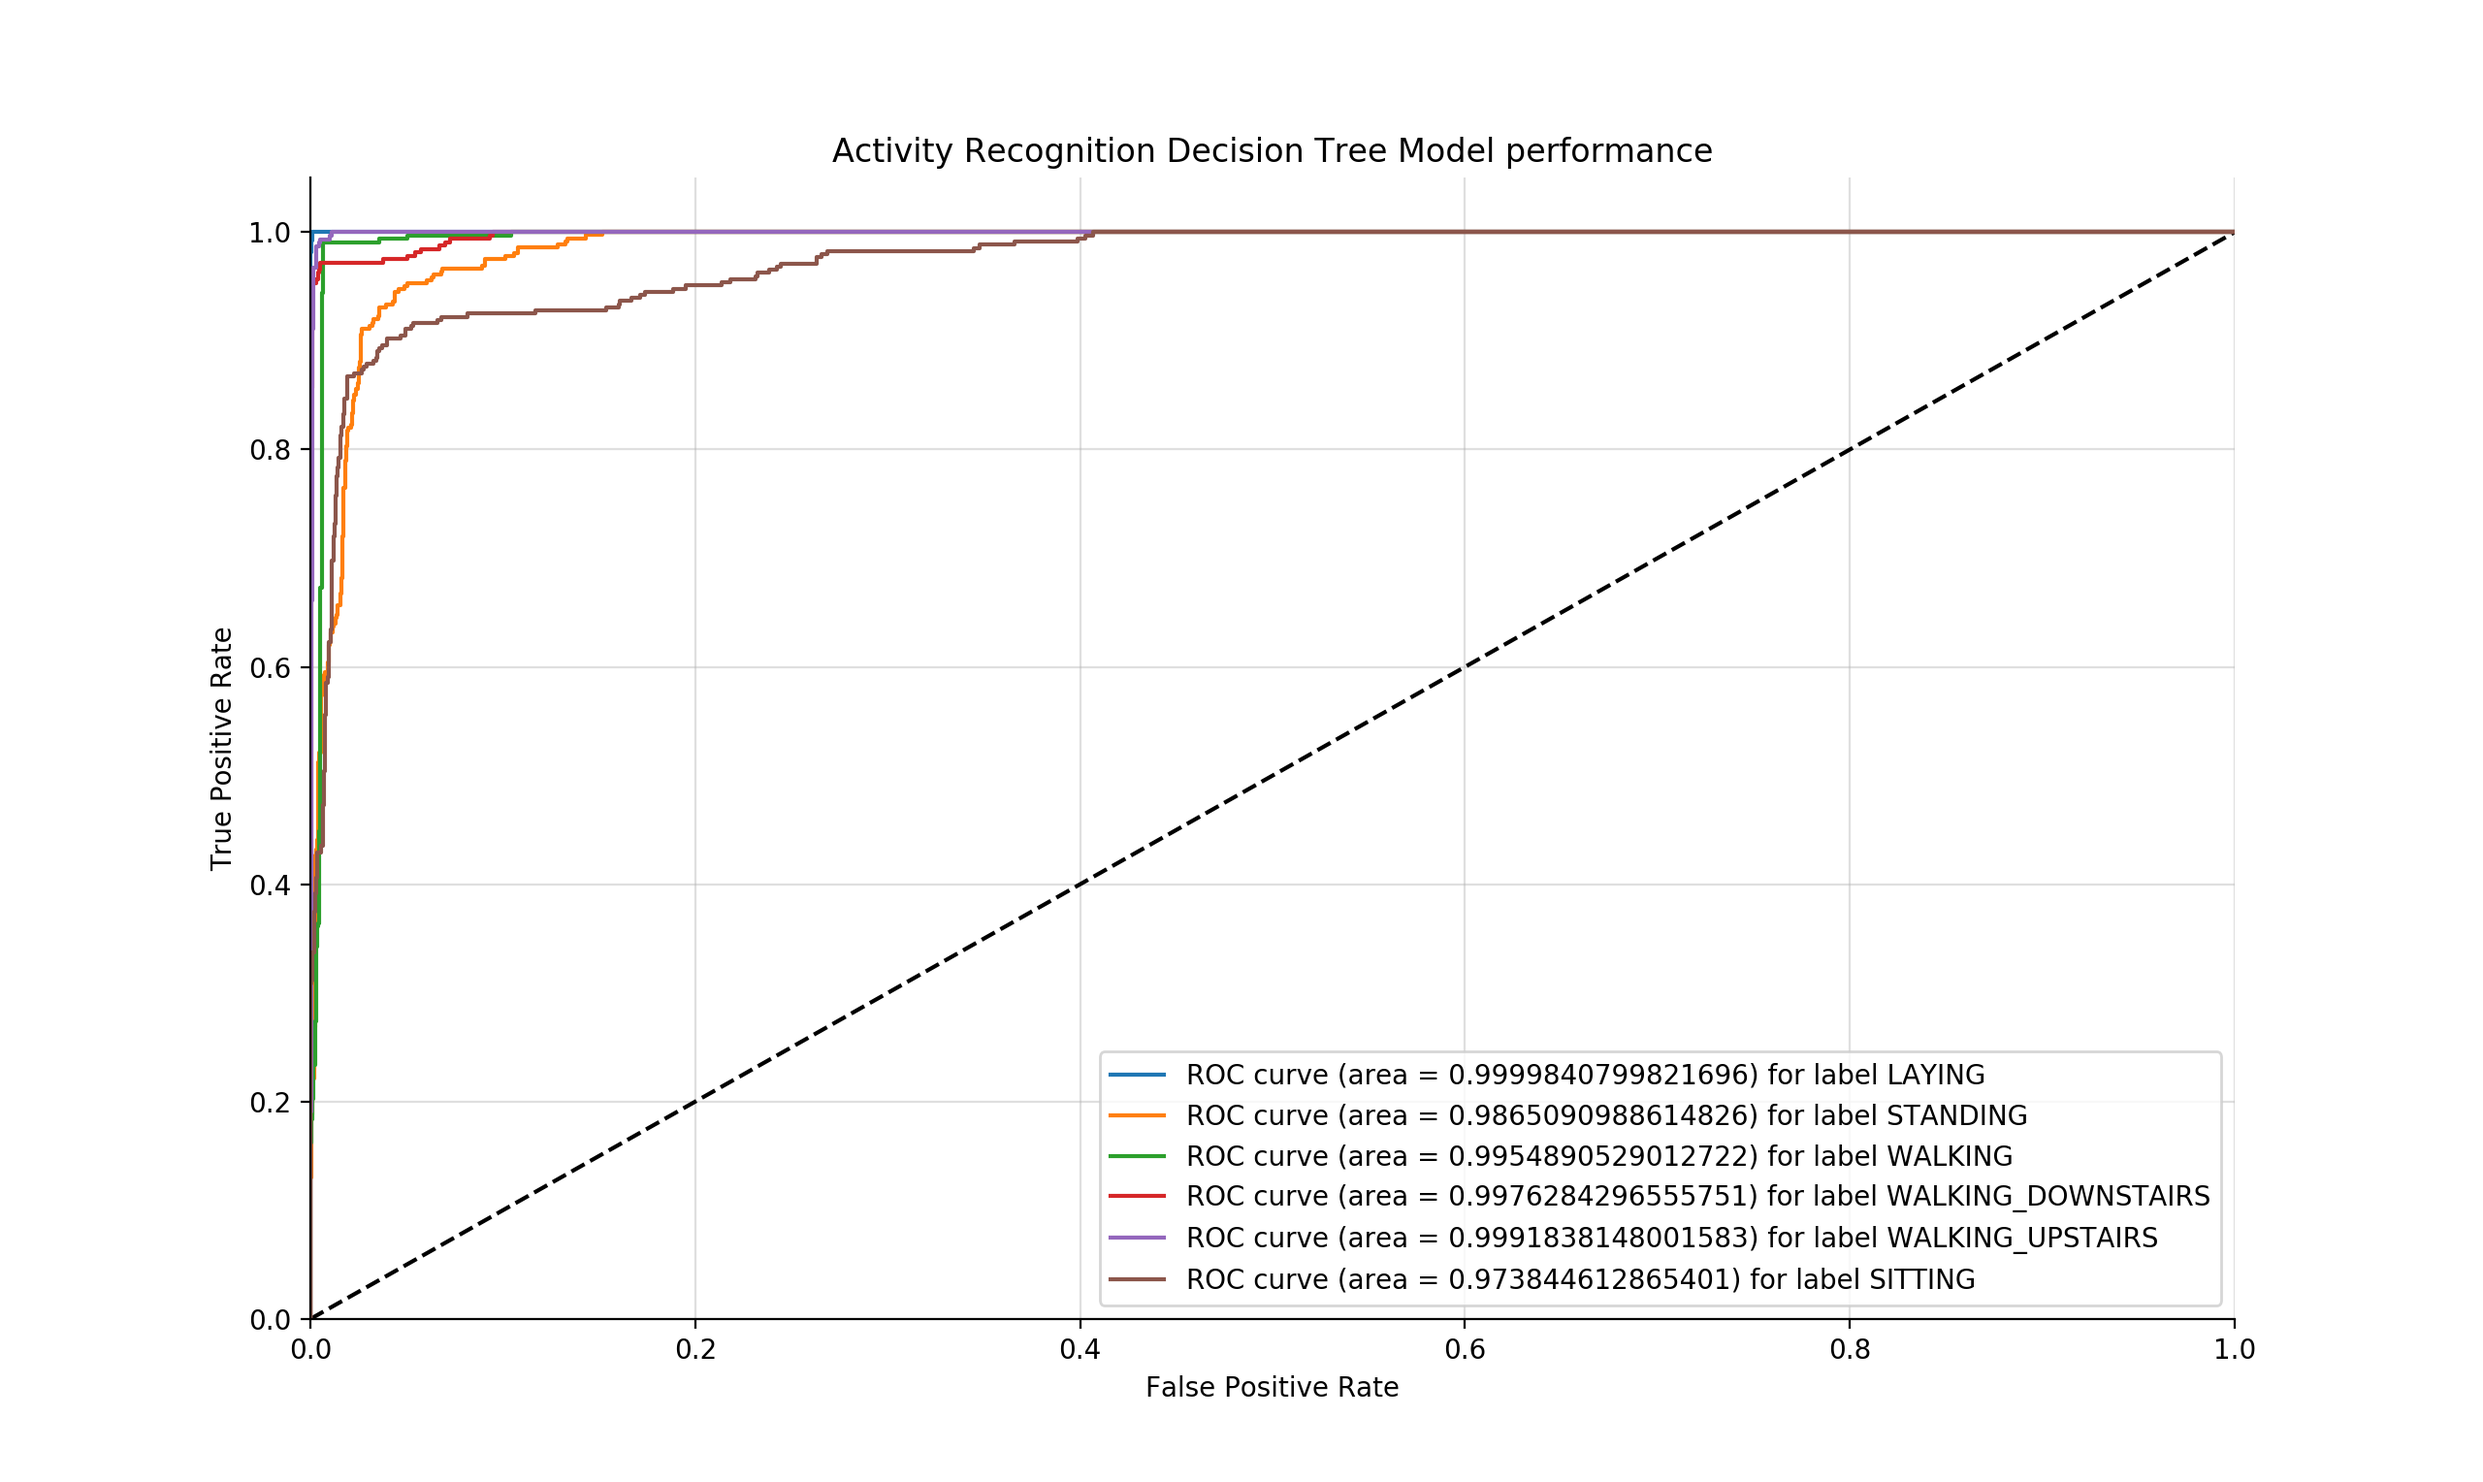
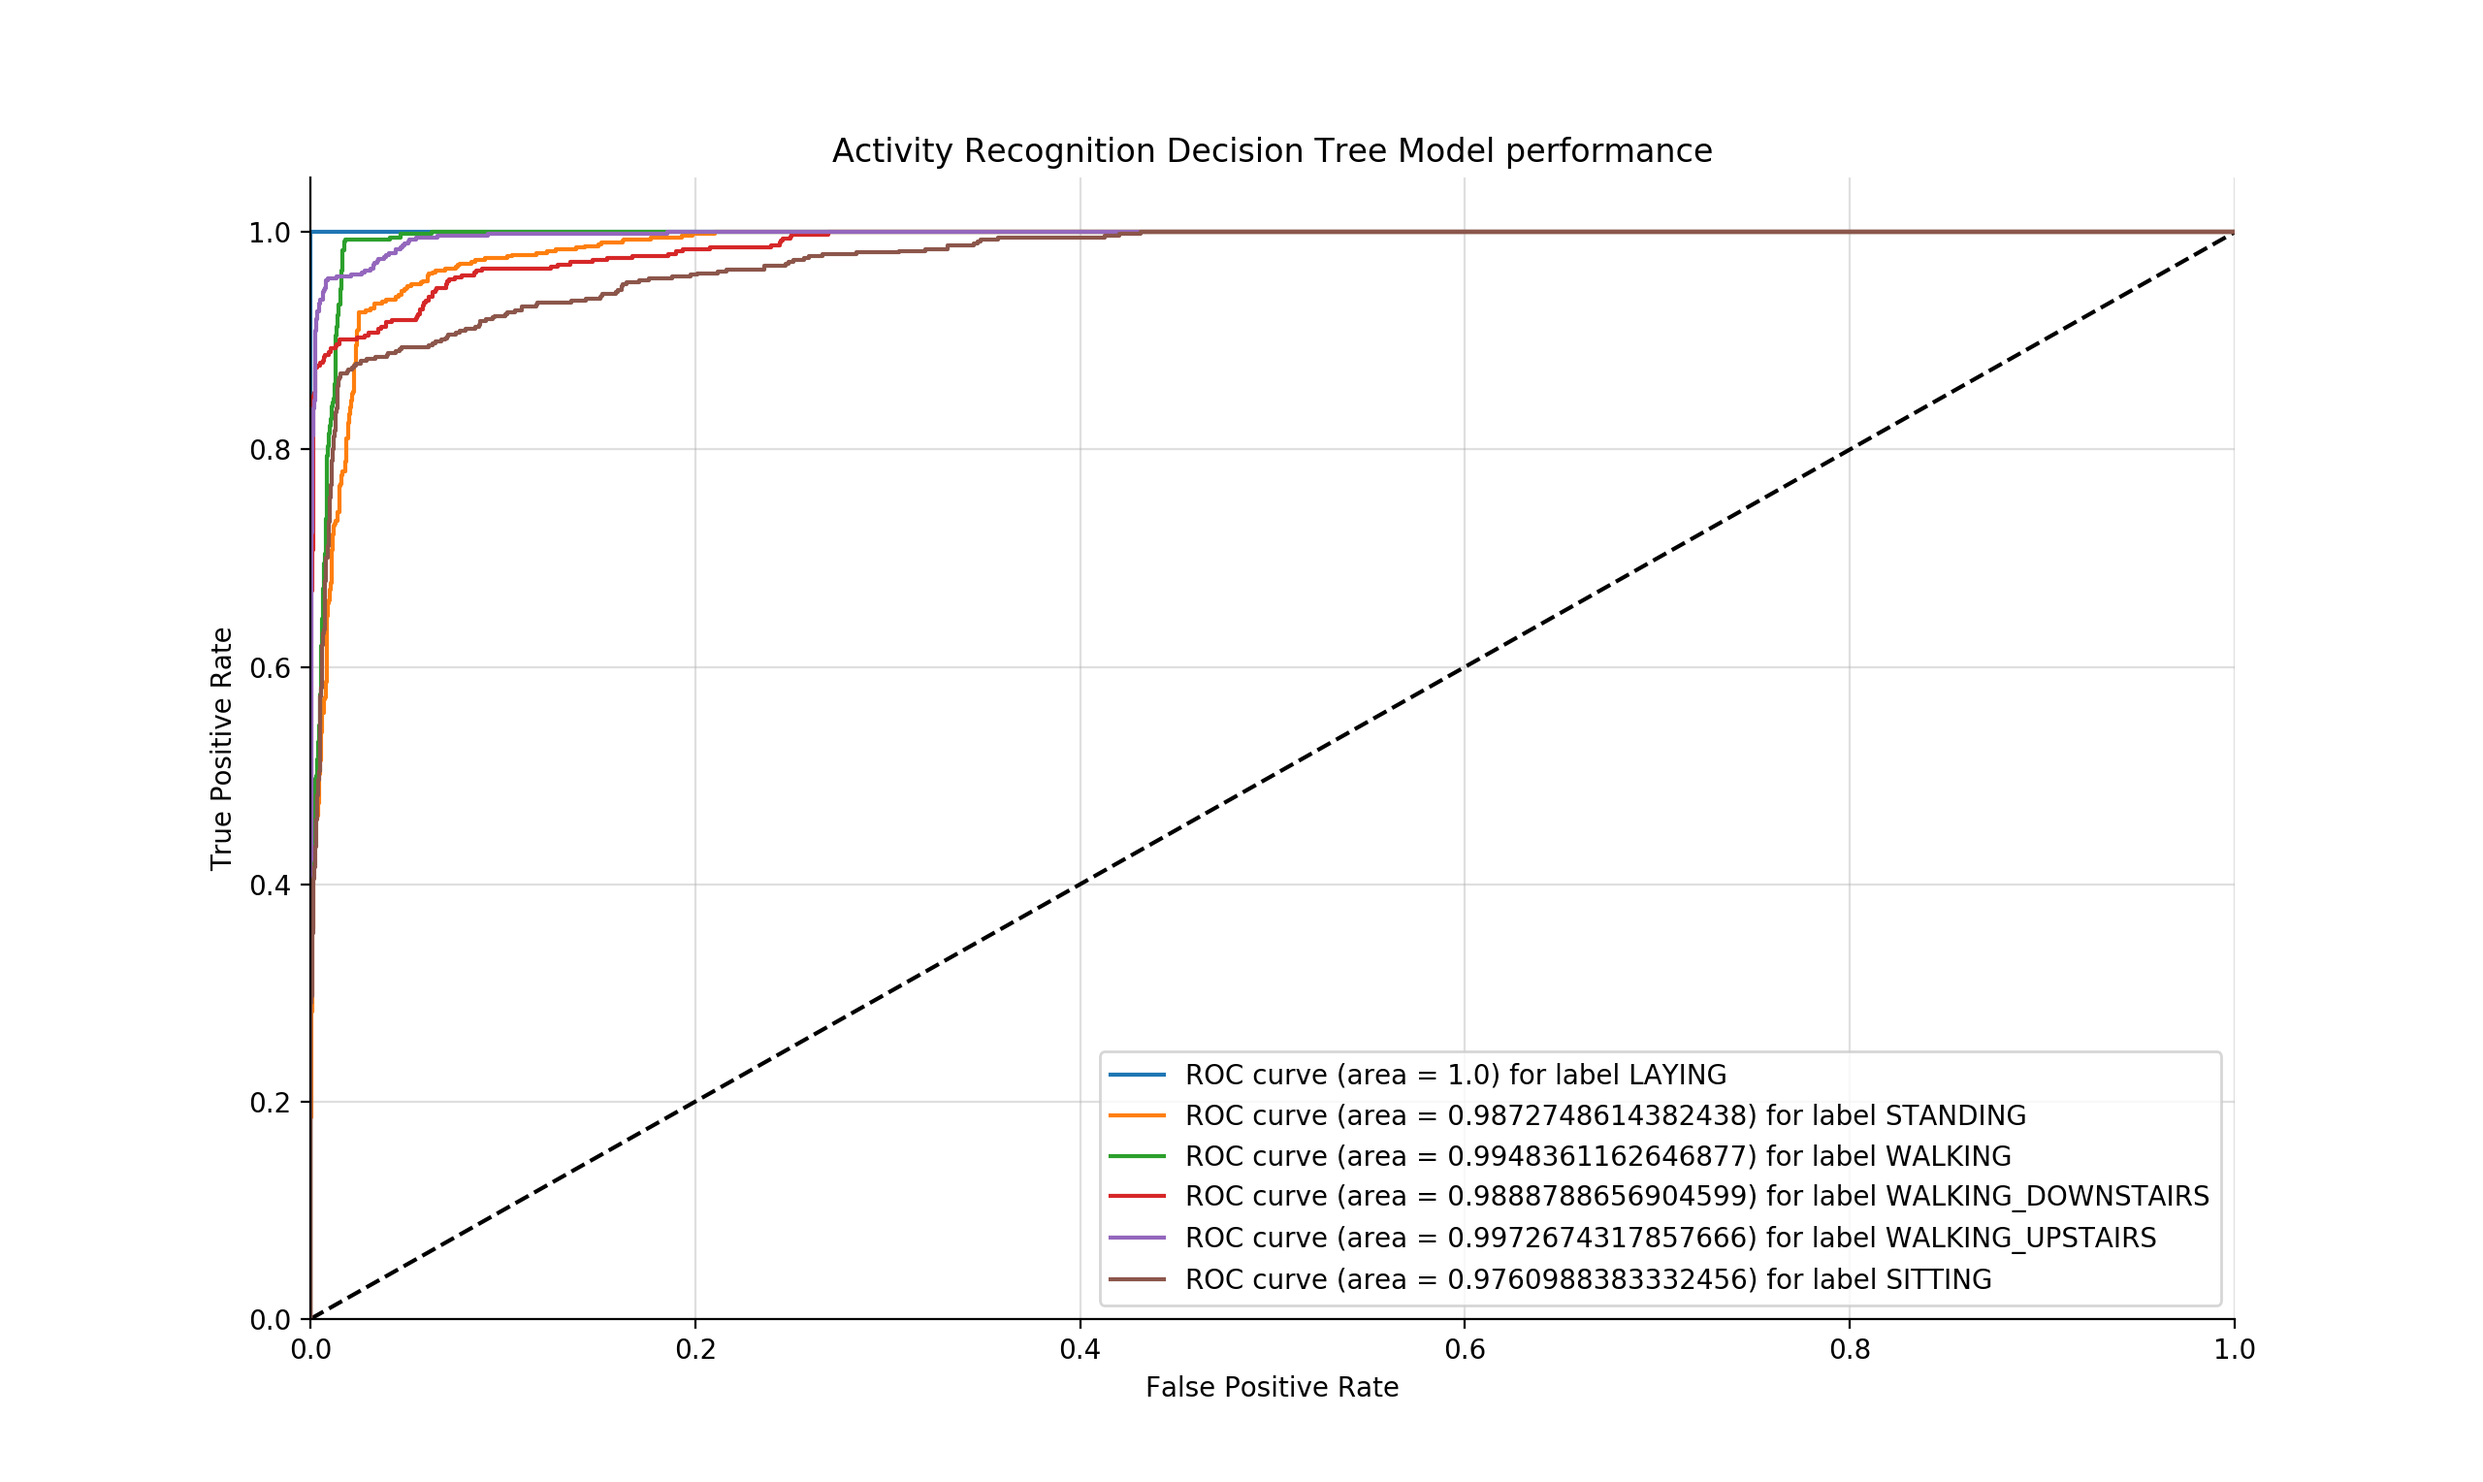
New training & testing set for svm

diff --git a/svm.py b/svm.py
@@ -20,9 +20,24 @@ df = pd.read_csv(path)
 target_labels =  ['LAYING', 'STANDING', 'WALKING', 'WALKING_DOWNSTAIRS', 'WALKING_UPSTAIRS','SITTING']
 df['Activity'] = df["Activity"].map({"LAYING": 0, "STANDING": 1, 'WALKING': 2, 'WALKING_DOWNSTAIRS': 3, 'WALKING_UPSTAIRS': 4, 'SITTING': 5})
 
-msk = np.random.rand(len(df)) < 0.8
-train = df[msk]
-test = df[~msk]
+# assign 66% of each type to training dataset
+num_type = [0,0,0,0,0,0]
+for index, row in df.iterrows():
+    num_type[int(row[57])] += 1
+
+num_test = [int(i * 0.66) for i in num_type]
+
+train, test = [],[]
+
+for index, row in df.iterrows():
+    num_test[int(row[57])] -= 1
+    if (num_test[int(row[57])] >= 0):
+        train.append(row)
+    else:
+        test.append(row)
+ 
+train = pd.DataFrame(train)
+test = pd.DataFrame(test)
 
 x_train = train.iloc[:,0:562]
 y_train = train['Activity']
